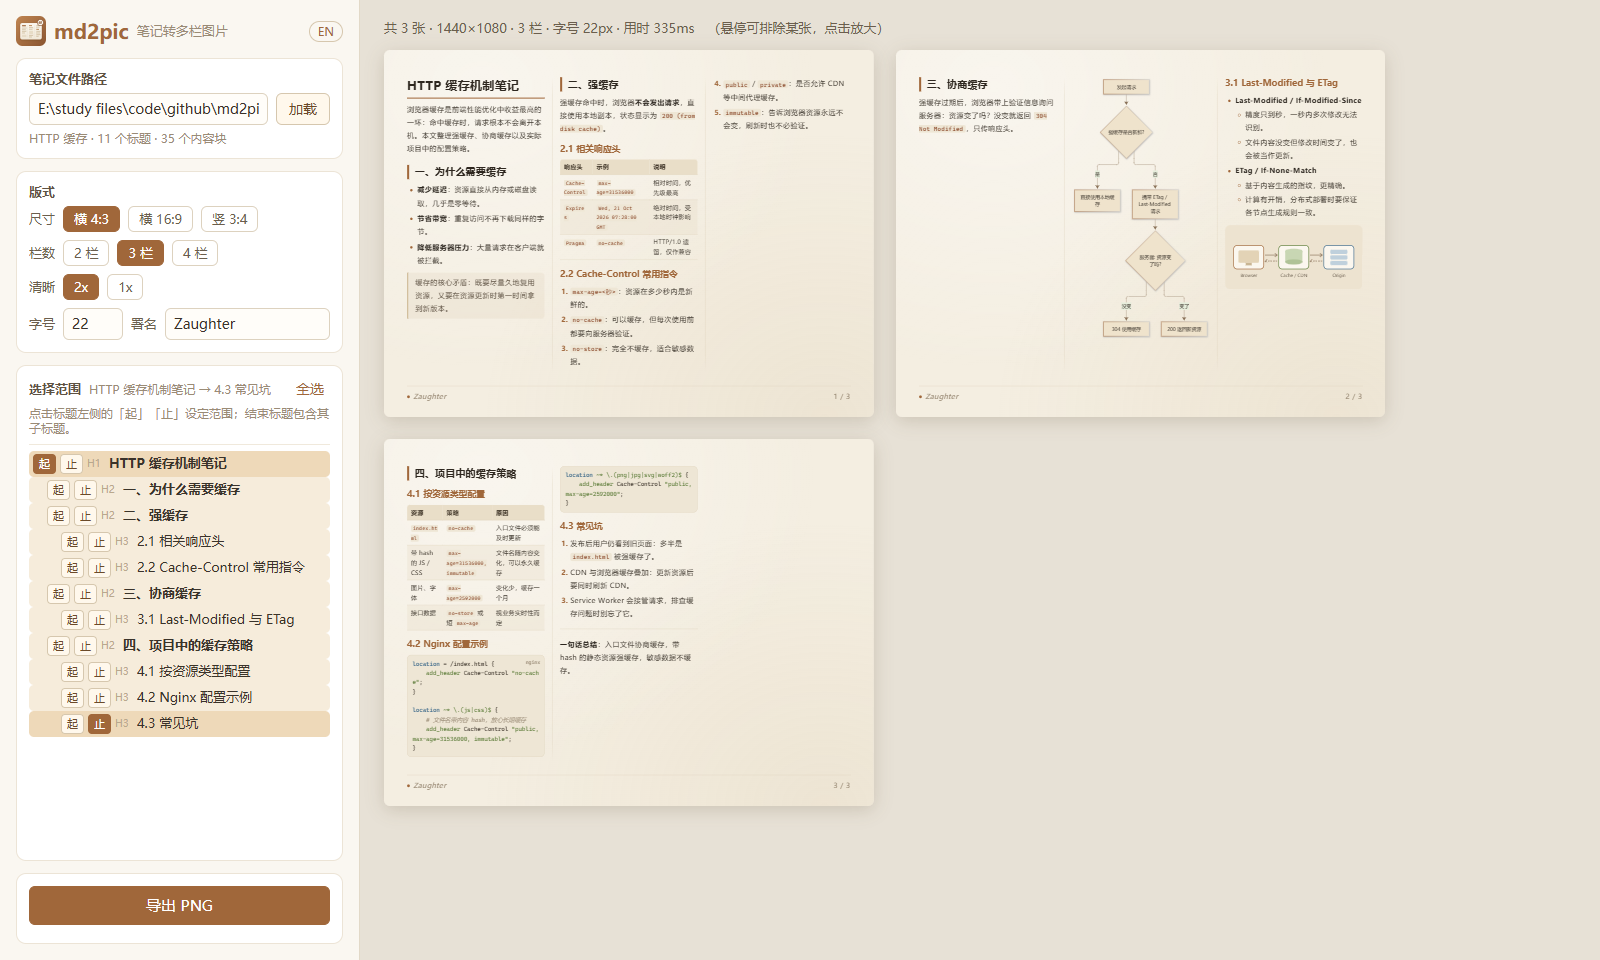
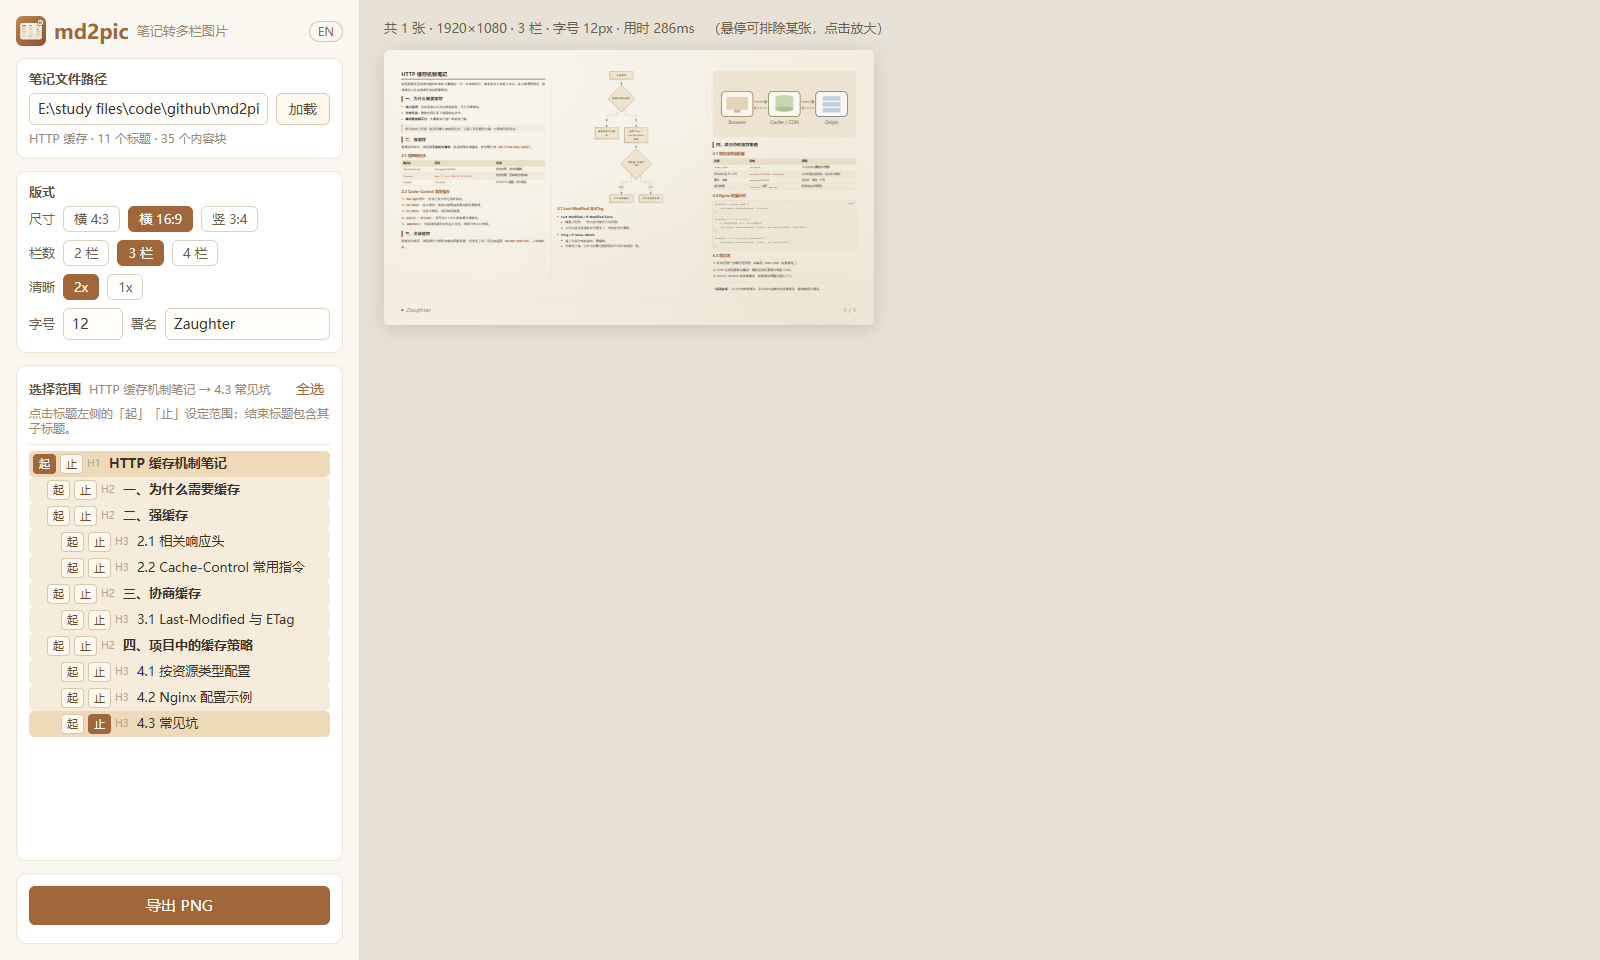
Add MIT license and refresh README screenshots
Screenshots now use the wide 16:9 layout with 3 columns at 12px.

diff --git a/README.en.md b/README.en.md
@@ -13,6 +13,7 @@
 [![Playwright](https://img.shields.io/badge/playwright--core-1.64-2EAD33?logo=playwright&logoColor=white)](https://playwright.dev/)
 [![Platform](https://img.shields.io/badge/platform-Windows%20%7C%20macOS%20%7C%20Linux-8A7259)](#requirements)
 [![i18n](https://img.shields.io/badge/i18n-%E4%B8%AD%E6%96%87%20%7C%20English-8A7259)](#language)
+[![License: MIT](https://img.shields.io/badge/License-MIT-C08551.svg)](LICENSE)
 
 [简体中文](README.md) | English
 
@@ -43,11 +44,10 @@ Markdown notes are a single column. A screenshot of one fits little content and 
 
 ## 🖼 Gallery
 
-> Rendered from [`example/http-caching.md`](example/http-caching.md): landscape 4:3, 3 columns, 22px.
+> Rendered from [`example/http-caching.md`](example/http-caching.md): wide 16:9, 3 columns, 12px. The whole note fits on a single image.
 
 <p align="center">
-  <img src="docs/images/page-en-1.png" width="49%" alt="Sample page 1">
-  <img src="docs/images/page-en-2.png" width="49%" alt="Sample page 2">
+  <img src="docs/images/page-en-1.png" width="100%" alt="Sample output">
 </p>
 
 <details>
@@ -184,3 +184,7 @@ Relative image paths are resolved from the note's folder, so check that the path
 - [highlight.js](https://highlightjs.org/): syntax highlighting
 - [Mermaid](https://mermaid.js.org/): diagrams
 - [Playwright](https://playwright.dev/): browser automation
+
+## 📄 License
+
+Released under the [MIT License](LICENSE).
